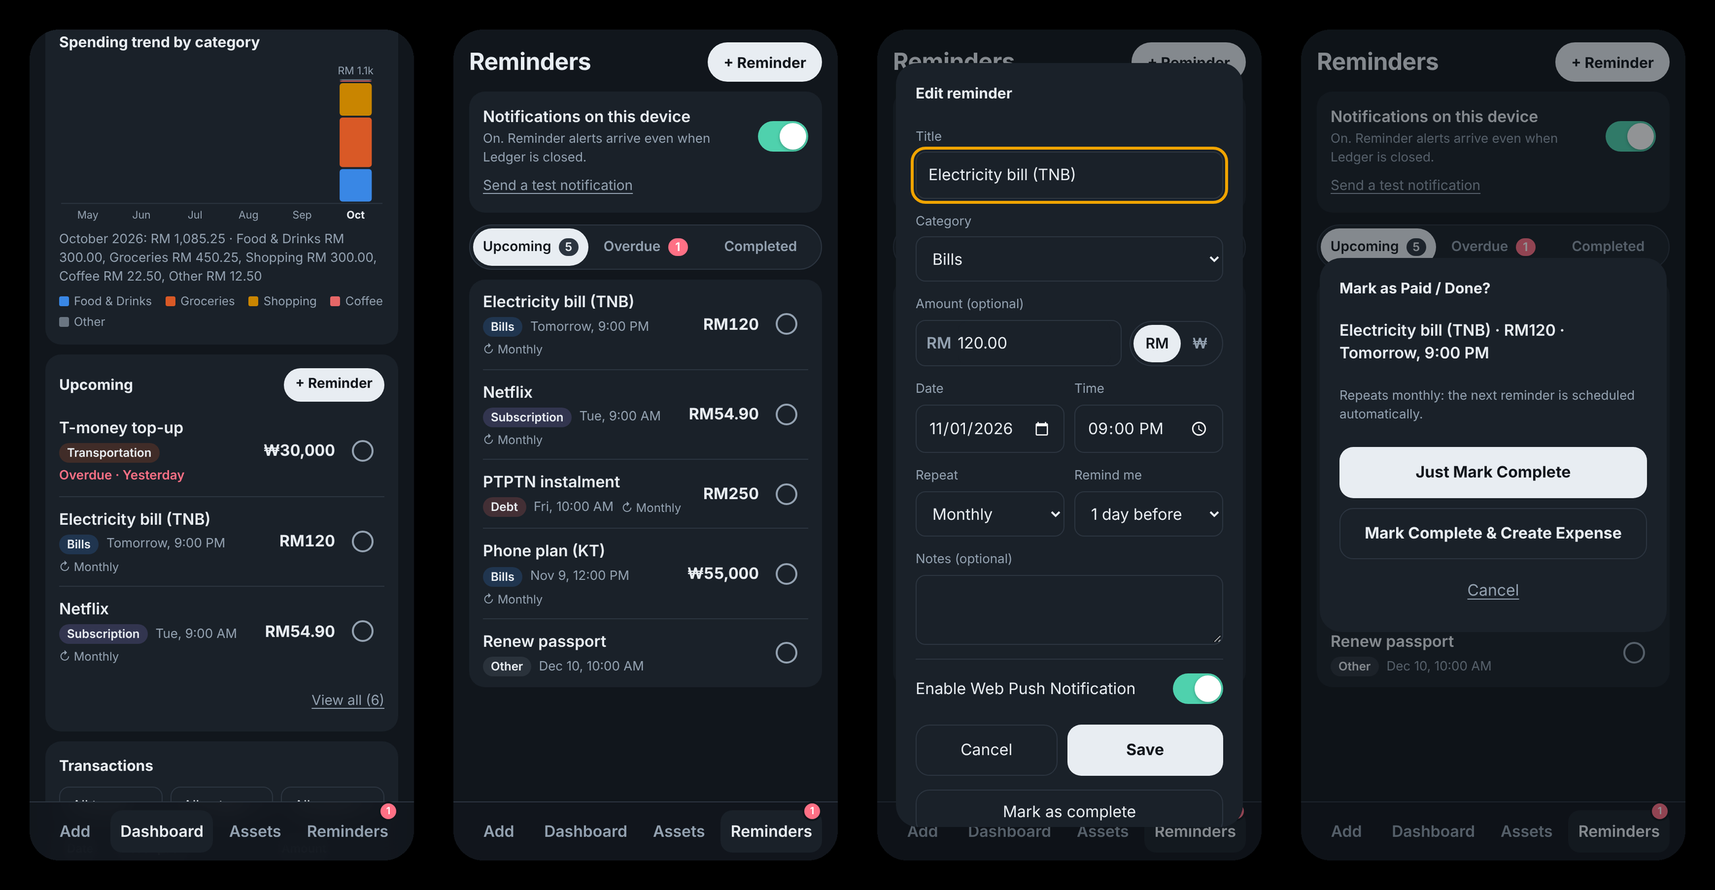
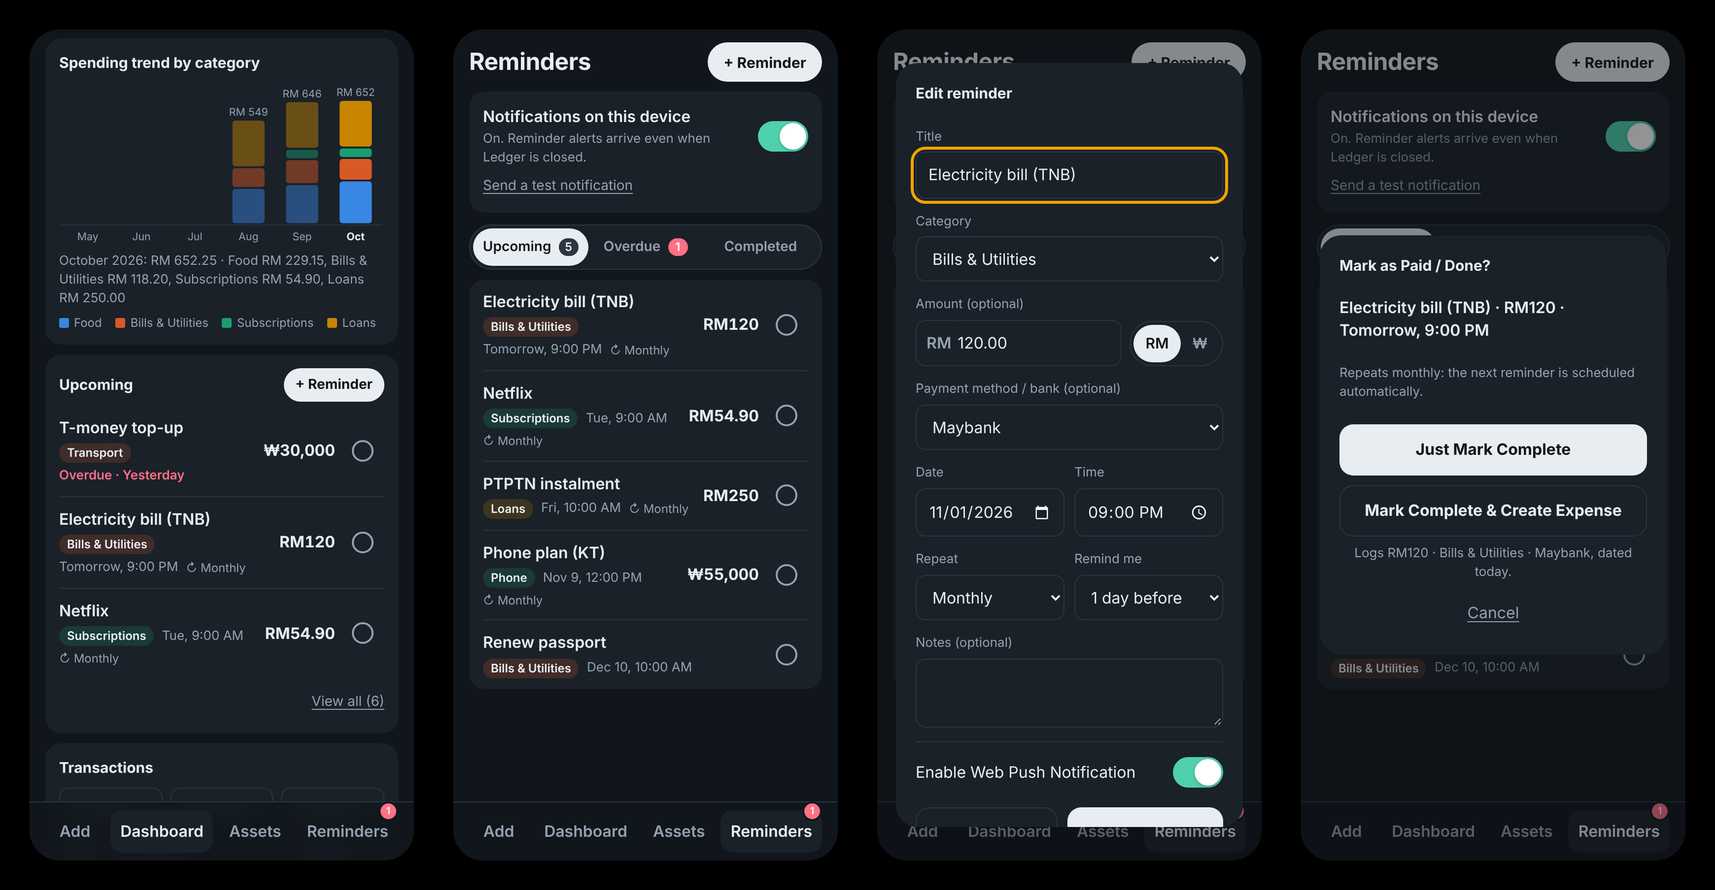
Reminders: use expense categories and payment methods; Create Expense logs directly

diff --git a/app.js b/app.js
@@ -108,6 +108,7 @@
       S.lastSavedId = null;
       toast("Deleted.");
       loadRecent(); if (!$("dash").hidden) loadDash();
+      loadReminders(true);   // an expense logged from a reminder is unlinked from it
     } catch (e) { toast("Couldn't undo: " + e.message, { bad: true }); }
   });
 
@@ -1050,7 +1051,6 @@
   // form pre-filled, and nothing is counted as spending until that expense is saved.
   const R = { list: [], completed: [], loadedAt: 0, filter: store.get("remFilter", "upcoming"), ctx: null, pendingOpen: null, devices: 0 };
   const TZ = (() => { try { return Intl.DateTimeFormat().resolvedOptions().timeZone || "Asia/Seoul"; } catch { return "Asia/Seoul"; } })();
-  const REM_CATS = ["Bills", "Transportation", "Debt", "Subscription", "Shopping", "Other"];
   const pad2 = (n) => String(n).padStart(2, "0");
   const dayKey = (d) => `${d.getFullYear()}-${pad2(d.getMonth() + 1)}-${pad2(d.getDate())}`;
   const clockText = (d) => d.toLocaleTimeString("en-US", { hour: "numeric", minute: "2-digit" }).replace(/[  ]/g, " ");
@@ -1102,10 +1102,13 @@
   function remItem(r) {
     const st = remStatus(r), amt = remAmount(r);
     const when = el("span", { class: "rem-when", text: schedText(r) });
-    const meta = el("span", { class: "rem-meta" },
-      el("span", { class: `badge badge-${REM_CATS.indexOf(r.category) + 1}`, text: r.category }), when);
+    // the badge uses the category's dashboard colour (same slot as in the charts)
+    const badge = el("span", { class: "badge", text: r.category || "No category" });
+    if (r.category) badge.style.setProperty("--bc", catPalette(r.currency, [r.category]).color(r.category));
+    const meta = el("span", { class: "rem-meta" }, badge, when);
     if (r.repeat !== "Once") meta.append(el("span", { class: "rem-rep", text: "↻ " + r.repeat }));
     if (!r.pushEnabled && st !== "completed") meta.append(el("span", { class: "rem-rep", text: "No alert" }));
+    if (r.transactionId) meta.append(el("span", { class: "rem-rep rem-logged", text: "✓ Logged" }));
     const main = el("button", { type: "button", class: "rem-main", onclick: () => openReminder(r) },
       el("span", { class: "rem-title", text: r.title }), meta);
     const right = el("div", { class: "rem-right" });
@@ -1154,8 +1157,54 @@
   $("rem-add-dash").addEventListener("click", () => openReminder(null));
 
   // ---------- create / edit dialog ----------
-  function setRemCur(code) {
+  // Categories are your expense categories (each belongs to RM or ₩). Picking one sets the currency;
+  // switching the currency by hand moves to the category of the same name in that list, if there is one.
+  const expenseCats = (code) => S.meta.categories.filter((c) => (!c.currency || c.currency === code) && c.kind !== "income").map((c) => c.name);
+  const payMethods = (code) => (S.meta.payment_methods || []).filter((b) => !b.currency || b.currency === code).map((b) => b.name);
+  function fillCatSelect(sel, { only = null, value = "" } = {}) {
+    const groups = curOrder().filter((code) => !only || code === only).map((code) => {
+      const names = expenseCats(code);
+      if (!names.length) return null;
+      return el("optgroup", { label: `${SYM[code] || code} categories` }, ...names.map((n) => el("option", { value: `${code}|${n}`, text: n })));
+    }).filter(Boolean);
+    sel.replaceChildren(el("option", { value: "", text: groups.length ? "Choose a category" : "No expense categories yet" }), ...groups);
+    sel.value = value;
+    if (sel.value !== value) sel.value = "";
+  }
+  function fillPmSelect(sel, code, value, emptyText = "None") {
+    const names = payMethods(code);
+    sel.replaceChildren(el("option", { value: "", text: names.length ? emptyText : `No ${SYM[code] || code} payment methods yet` }),
+      ...names.map((n) => el("option", { value: n, text: n })));
+    sel.value = names.includes(value) ? value : "";
+  }
+  const remCatName = () => ($("rem-cat").value ? $("rem-cat").value.split("|").slice(1).join("|") : "");
+  function remCatHint() {
+    const h = $("rem-cat-hint"), code = R.ctx.currency, name = R.ctx.wantCat;
+    let msg = "";
+    if (!expenseCats(code).length) msg = `You have no ${SYM[code] || code} expense categories yet: add one on the Add screen.`;
+    else if (!$("rem-cat").value && name) msg = `“${name}” isn't in your ${SYM[code] || code} list: pick a ${SYM[code] || code} category.`;
+    h.textContent = msg; h.hidden = !msg;
+  }
+  $("rem-cat").addEventListener("change", () => {
+    const v = $("rem-cat").value;
+    R.ctx.wantCat = null;
+    if (v) { const code = v.split("|")[0]; if (code !== R.ctx.currency) setRemCur(code, { keepCat: true }); }
+    remCatHint(); $("rem-err").hidden = true;
+  });
+  function setRemCur(code, { keepCat = false } = {}) {
+    const prev = R.ctx.currency;
     R.ctx.currency = code;
+    if (!keepCat) {
+      const name = remCatName() || R.ctx.wantCat;
+      const target = name && expenseCats(code).find((n) => n.toLowerCase() === name.toLowerCase());
+      $("rem-cat").value = target ? `${code}|${target}` : "";
+      R.ctx.wantCat = target ? null : name || null;
+    }
+    // payment method: same name in the new currency, else the one last used for that currency
+    const pmWas = $("rem-pm").value;
+    const pmSame = pmWas && payMethods(code).find((n) => n.toLowerCase() === pmWas.toLowerCase());
+    fillPmSelect($("rem-pm"), code, pmSame || (prev !== code || !R.ctx.id ? S.bankByCur[code] : pmWas) || "");
+    remCatHint();
     for (const b of $("rem-cur").children) b.setAttribute("aria-checked", String(b.dataset.v === code));
     $("rem-sym").textContent = SYM[code] || code;
     $("rem-amount").placeholder = decimals(code) ? "0.00" : "0";
@@ -1171,11 +1220,13 @@
     const nh = nextHour();
     $("rem-h").textContent = r ? (r.isCompleted ? "Completed reminder" : "Edit reminder") : "New reminder";
     $("rem-title").value = r?.title ?? "";
-    $("rem-cat").value = r?.category ?? "Bills";
+    fillCatSelect($("rem-cat"), { value: r?.category ? `${r.currency}|${r.category}` : "" });
+    fillPmSelect($("rem-pm"), R.ctx.currency, r ? r.paymentMethod ?? "" : S.bankByCur[R.ctx.currency] ?? "");
     $("rem-cur").replaceChildren(...curOrder().map((code) => el("button", {
       type: "button", role: "radio", "data-v": code, text: SYM[code] || code, onclick: () => setRemCur(code) })));
     $("rem-amount").value = r?.amount != null ? groupDigits(Number(r.amount).toFixed(decimals(r.currency)), r.currency) : "";
-    setRemCur(R.ctx.currency);
+    setRemCur(R.ctx.currency, { keepCat: true });
+    if (r) $("rem-pm").value = payMethods(r.currency).includes(r.paymentMethod) ? r.paymentMethod : "";
     $("rem-date").value = r?.date ?? nh.date;
     $("rem-time").value = r?.time ?? nh.time;
     $("rem-repeat").value = r?.repeat ?? "Once";
@@ -1213,11 +1264,13 @@
     const amount = plain($("rem-amount").value);
     const err = (m, focus) => { $("rem-err").textContent = m; $("rem-err").hidden = false; if (focus) $(focus).focus(); };
     if (!title) return err("Enter a title.", "rem-title");
+    if (!$("rem-cat").value) return err("Choose a category.", "rem-cat");
     if (amount !== "" && !(Number(amount) > 0)) return err("Enter an amount above zero, or leave it empty.", "rem-amount");
     if (!$("rem-date").value) return err("Pick a date.", "rem-date");
     if (!/^\d{2}:\d{2}/.test($("rem-time").value)) return err("Pick a time.", "rem-time");
     const body = {
-      title, category: $("rem-cat").value, amount: amount === "" ? null : amount, currency: R.ctx.currency,
+      title, category: remCatName(), paymentMethod: $("rem-pm").value || null,
+      amount: amount === "" ? null : amount, currency: R.ctx.currency,
       date: $("rem-date").value, time: $("rem-time").value.slice(0, 5), repeat: $("rem-repeat").value,
       remindBefore: $("rem-before").value, notes: $("rem-notes").value.trim() || null,
       pushEnabled: $("rem-push").checked, timeZone: TZ,
@@ -1259,62 +1312,109 @@
   $("rem-complete").addEventListener("click", () => { const r = R.ctx?.original; $("rem-dlg").close(); R.ctx = null; if (r) askComplete(r); });
 
   // ---------- complete: "Mark as Paid / Done?" ----------
+  // "Mark Complete & Create Expense" logs the expense straight from the reminder (server side, in the same
+  // database transaction as completing it). If the reminder has no amount, category or payment method yet,
+  // the dialog asks for just those first; they are saved to the reminder (and its next instance) too.
   let doneCtx = null;
+  const missingFor = (r) => ({ amount: r.amount === null || r.amount === undefined || r.amount === "", category: !r.category, paymentMethod: !r.paymentMethod });
   function askComplete(r) {
-    doneCtx = r;
+    doneCtx = { r, filling: false };
     const amt = remAmount(r);
     $("done-what").textContent = `${r.title}${amt ? ` · ${amt}` : ""} · ${schedText(r)}`;
     $("done-next").hidden = r.repeat === "Once";
     $("done-next").textContent = `Repeats ${r.repeat.toLowerCase()}: the next reminder is scheduled automatically.`;
     $("done-err").hidden = true;
+    $("done-fill").hidden = true;
+    $("done-expense").textContent = "Mark Complete & Create Expense";
+    $("done-expense").className = "ghost strong"; $("done-only").hidden = false;
+    const miss = missingFor(r);
+    $("done-log").textContent = r.transactionId ? "The expense for this reminder is already logged."
+      : (miss.amount || miss.category || miss.paymentMethod) ? "Logs an expense from this reminder; you'll be asked for the missing details."
+      : `Logs ${amt} · ${r.category} · ${r.paymentMethod}, dated today.`;
     for (const id of ["done-only", "done-expense"]) $(id).disabled = false;
     $("done-dlg").showModal();
   }
+  function showFill(r, fields) {
+    doneCtx.filling = true;
+    const code = r.currency;
+    $("done-amt-wrap").hidden = !fields.amount;
+    $("done-cat-wrap").hidden = !fields.category;
+    $("done-pm-wrap").hidden = !fields.paymentMethod;
+    $("done-sym").textContent = SYM[code] || code;
+    $("done-amount").value = "";
+    $("done-amount").setAttribute("inputmode", decimals(code) ? "decimal" : "numeric");
+    $("done-amount").placeholder = decimals(code) ? "0.00" : "0";
+    fillCatSelect($("done-cat"), { only: code });
+    fillPmSelect($("done-pm"), code, S.bankByCur[code] ?? "", "Choose a payment method");
+    $("done-fill").hidden = false;
+    $("done-expense").textContent = "Log expense & complete";
+    $("done-expense").className = "primary"; $("done-only").hidden = true;   // one clear next step while filling in
+    $("done-log").textContent = "";
+    const first = fields.amount ? "done-amount" : fields.category ? "done-cat" : "done-pm";
+    setTimeout(() => $(first).focus(), 50);
+  }
+  $("done-amount").addEventListener("input", () => formatInput($("done-amount"), doneCtx?.r.currency || "MYR"));
   $("done-form").addEventListener("submit", async (e) => {
     const how = e.submitter?.value;
     if (how !== "done" && how !== "expense") { doneCtx = null; return; }
     e.preventDefault();
-    const r = doneCtx;
+    const r = doneCtx.r;
+    const fail = (m) => { $("done-err").textContent = m; $("done-err").hidden = false; };
+    $("done-err").hidden = true;
+    let body;
+    if (how === "expense") {
+      const miss = missingFor(r);
+      if (!r.transactionId && !doneCtx.filling && (miss.amount || miss.category || miss.paymentMethod)) return showFill(r, miss);
+      body = { createExpense: true, date: todayLocal() };
+      if (doneCtx.filling) {
+        if (!$("done-amt-wrap").hidden) {
+          const a = plain($("done-amount").value);
+          if (!(Number(a) > 0)) { $("done-amount").focus(); return fail("Enter the amount you paid."); }
+          body.amount = a;
+        }
+        if (!$("done-cat-wrap").hidden) {
+          if (!$("done-cat").value) { $("done-cat").focus(); return fail("Choose a category."); }
+          body.category = $("done-cat").value.split("|").slice(1).join("|");
+        }
+        if (!$("done-pm-wrap").hidden) {
+          if (!$("done-pm").value) { $("done-pm").focus(); return fail("Choose a payment method."); }
+          body.paymentMethod = $("done-pm").value;
+        }
+      }
+    }
     for (const id of ["done-only", "done-expense"]) $(id).disabled = true;
     try {
-      const res = await api("POST", `/reminders/${r.id}/complete`);
+      const res = await api("POST", `/reminders/${r.id}/complete`, body);
       $("done-dlg").close(); doneCtx = null;
       upsertLocal(res.reminder);
       if (res.next) upsertLocal(res.next);
       const next = res.next ? ` Next: ${schedText(res.next)}.` : "";
-      if (how === "expense") {
-        prefillExpense(res.reminder);
-        toast("Marked complete." + next + " Check the expense below, then tap Save expense.", { ms: 8000 });
+      if (how === "expense" && res.transaction) {
+        const t = res.transaction;
+        if (body.paymentMethod) { S.bankByCur[t.currency] = t.which_bank; store.set("bankByCur", S.bankByCur); }
+        S.lastSavedId = res.expense_logged ? t.transaction_id : null;
+        toast(`${res.expense_logged ? "Logged" : "Already logged"} ${remAmount({ amount: t.amount, currency: t.currency })} · ${t.item} · ${t.which_bank}.${next}`,
+              { undo: res.expense_logged, ms: 7000 });
+        loadRecent();
+        if (!$("dash").hidden) loadDash(true);
       } else toast(`Marked complete.${next}`);
       loadReminders(true);
     } catch (x) {
-      if (x instanceof ApiError && x.status === 404) { $("done-dlg").close(); toast("That reminder was deleted."); loadReminders(true); return; }
-      $("done-err").textContent = "Couldn't complete it: " + x.message; $("done-err").hidden = false;
       for (const id of ["done-only", "done-expense"]) $(id).disabled = false;
+      if (x instanceof ApiError && x.status === 404 && x.body?.error?.code === "not_found" && !/Route/.test(x.message)) {
+        $("done-dlg").close(); toast("That reminder was deleted."); loadReminders(true); return;
+      }
+      if (x instanceof ApiError && x.body?.error?.code === "expense_details_missing") {   // stale copy: ask for what the server says
+        const f = x.body.error.fields || {};
+        showFill(r, { amount: !!f.amount, category: !!f.category, paymentMethod: !!f.paymentMethod });
+        return fail("Add the missing details to log the expense.");
+      }
+      fail("Couldn't complete it: " + (x.body?.error?.message || x.message));
     }
   });
   async function reopenReminder(r) {
     try { const res = await api("POST", `/reminders/${r.id}/reopen`); upsertLocal(res.reminder); toast("Reopened."); }
     catch (x) { toast("Couldn't reopen: " + x.message, { bad: true }); }
-  }
-  // the standard expense entry form, pre-filled; nothing is saved until the user taps Save expense
-  function prefillExpense(r) {
-    showTab("add");
-    if (S.type !== "expense") S.type = "expense";
-    if (S.meta.currencies.some((c) => c.code === r.currency)) { S.currency = r.currency; store.set("currency", r.currency); }
-    renderCurrencySegs(); renderCurrency();
-    const cats = catsForType(), want = r.category.toLowerCase();
-    const match = cats.find((c) => c.toLowerCase() === want)
-      || cats.find((c) => c.toLowerCase().startsWith(want.slice(0, 5)) || want.startsWith(c.toLowerCase().slice(0, 5)));
-    if (match) { S.category = match; renderType(); }
-    $("amount").value = r.amount != null ? groupDigits(Number(r.amount).toFixed(decimals(r.currency)), r.currency) : "";
-    formatInput($("amount"), S.currency);
-    $("item").value = r.title;
-    $("date").value = r.date;
-    $("notes").value = "";
-    S.requestId = uuid();
-    window.scrollTo({ top: 0 });
-    setTimeout(() => $(r.amount != null ? "item" : "amount").focus(), 60);
   }
 
   // ---------- Web Push: this device ----------

diff --git a/index.html b/index.html
@@ -282,13 +282,16 @@
       <label class="field"><span>Title</span>
         <input id="rem-title" maxlength="80" autocomplete="off" autocapitalize="sentences" placeholder="e.g. Electricity bill" required></label>
       <label class="field"><span>Category</span>
-        <select id="rem-cat"><option>Bills</option><option>Transportation</option><option>Debt</option><option>Subscription</option><option>Shopping</option><option>Other</option></select></label>
+        <select id="rem-cat" required></select>
+        <span class="muted small" id="rem-cat-hint" hidden></span></label>
       <div class="field"><span id="rem-amt-label">Amount <span class="optional">(optional)</span></span>
         <div class="amt-row">
           <label class="budget-input grow"><span id="rem-sym">RM</span>
             <input id="rem-amount" inputmode="decimal" autocomplete="off" placeholder="0.00" aria-labelledby="rem-amt-label"></label>
           <div class="seg" id="rem-cur" role="radiogroup" aria-label="Currency"></div>
         </div></div>
+      <label class="field"><span>Payment method / bank <span class="optional">(optional)</span></span>
+        <select id="rem-pm"></select></label>
       <div class="two">
         <label class="field"><span>Date</span><input id="rem-date" type="date" required></label>
         <label class="field"><span>Time</span><input id="rem-time" type="time" required></label>
@@ -321,9 +324,17 @@
       <h2>Mark as Paid / Done?</h2>
       <p id="done-what" class="del-what"></p>
       <p class="muted small" id="done-next" hidden></p>
+      <div class="stack done-fill" id="done-fill" hidden>
+        <p class="muted small">To log the expense, add:</p>
+        <label class="field" id="done-amt-wrap"><span>Amount paid</span>
+          <span class="budget-input"><span id="done-sym">RM</span><input id="done-amount" inputmode="decimal" autocomplete="off"></span></label>
+        <label class="field" id="done-cat-wrap"><span>Category</span><select id="done-cat"></select></label>
+        <label class="field" id="done-pm-wrap"><span>Payment method / bank</span><select id="done-pm"></select></label>
+      </div>
       <p id="done-err" class="error" role="alert" hidden></p>
       <button class="primary" value="done" type="submit" id="done-only">Just Mark Complete</button>
       <button class="ghost strong" value="expense" type="submit" id="done-expense">Mark Complete &amp; Create Expense</button>
+      <p class="muted small done-log" id="done-log"></p>
       <button class="link center-link" value="cancel" type="submit" formnovalidate>Cancel</button>
     </form>
   </dialog>

diff --git a/styles.css b/styles.css
@@ -380,8 +380,6 @@ dialog::backdrop { background: rgba(10, 15, 20, .45); }
   display: inline-block; font-size: 12px; font-weight: 600; line-height: 1; padding: 4px 8px; border-radius: 999px;
   color: var(--ink); background: color-mix(in srgb, var(--bc, var(--s-other)) 20%, var(--surface));
 }
-.badge-1 { --bc: var(--s1); } .badge-2 { --bc: var(--s2); } .badge-3 { --bc: var(--s8); }
-.badge-4 { --bc: var(--s7); } .badge-5 { --bc: var(--s5); } .badge-6 { --bc: var(--s-other); }
 
 .rem-tabs { margin-top: 12px; }
 .seg button[role="tab"][aria-selected="true"] { background: var(--ink); color: var(--bg); }
@@ -427,3 +425,12 @@ dialog::backdrop { background: rgba(10, 15, 20, .45); }
 #rem-complete { min-height: 46px; }
 .rem-tabs button { padding: 8px 6px; white-space: nowrap; font-size: 14px; }
 .tab-badge { position: absolute; top: -7px; right: 2px; margin: 0; min-width: 16px; line-height: 16px; font-size: 10px; padding: 0 4px; box-shadow: 0 0 0 2px var(--bg); }
+
+.rem-logged { color: var(--inc); font-weight: 600; }
+.done-fill { border-top: 1px solid var(--line); padding-top: 10px; }
+.done-fill .field { margin: 0; }
+.done-fill p { margin: 0; }
+.done-log { margin: -2px 0 0; text-align: center; }
+.done-log:empty { display: none; }
+#done-dlg { max-height: 92vh; overflow-y: auto; }
+#rem-cat-hint { color: var(--over); }

diff --git a/README.md b/README.md
@@ -21,8 +21,8 @@ Ringgit (RM) and Won (₩) are kept completely separate: their own categories, p
 | **Budgets that talk back** | A monthly budget per currency plus optional budgets per category. Bars show *% used* and turn red when you go over. |
 | **Live dashboard** | Spent / remaining meter, a category doughnut, budget bars and a 6-month stacked trend. Pick any month; it refreshes every 15 seconds while open. |
 | **Assets and net worth** | Savings accounts, ASB, gold, stocks, EPF… grouped by category with totals, a dated value history and RM / ₩ trend lines for the last 3 months. |
-| **Bill reminders with notifications** | Bills, subscriptions, debt instalments and top-ups, in RM or ₩, once or repeating (daily to yearly). The server sends a push notification at the time you pick (or 10 min to 1 day before), even when Ledger is closed. Tap it to open that reminder. |
-| **Reminders stay separate from spending** | A reminder never counts as an expense. When you pay, choose **Mark Complete & Create Expense** and the normal entry form opens pre-filled. Nothing is logged until you tap *Save expense*. |
+| **Bill reminders with notifications** | Bills, subscriptions, debt instalments and top-ups, filed under your own expense categories and payment methods (picking a ₩ category switches the reminder to ₩), once or repeating (daily to yearly). The server sends a push notification at the time you pick (or 10 min to 1 day before), even when Ledger is closed. Tap it to open that reminder. |
+| **One tap from reminder to expense** | A reminder never counts as spending on its own. When you pay, **Mark Complete & Create Expense** logs the expense straight away with the reminder's title, amount, currency, category, payment method and notes, dated the day you pay. If something is missing, such as the amount, Ledger asks for just that. |
 | **Works on a bad connection** | If the network drops, entries wait on the phone and send themselves later. A retried send can never create a duplicate. |
 | **Everywhere on the iPhone** | Installable Home Screen app, a Scriptable Home / Lock Screen widget (`LedgerWidget.js`), and an iOS Shortcut for Siri or a double tap on the back of the phone. |
 
@@ -34,6 +34,7 @@ Ringgit (RM) and Won (₩) are kept completely separate: their own categories, p
 </picture>
 
 - **Upcoming** on the dashboard shows the next 3 (overdue first), with *+ Reminder* and *View all*. The **Reminders** tab splits them into *Upcoming*, *Overdue* and *Completed*.
+- **Mark as Paid / Done?** offers *Just Mark Complete* or *Mark Complete & Create Expense*. A logged expense shows as *✓ Logged* under *Completed*, and the toast has an *Undo*.
 - **Repeating reminders** move on by themselves. Completing one schedules the next, and monthly ones keep their day (31 Jan → 28 Feb → 31 Mar). If you forget one, the next still arrives on time and the missed one waits under *Overdue*.
 - **Notifications on iPhone** need iOS 16.4 or later, with Ledger added to the Home Screen and opened from there. In a Safari tab, or if notifications are blocked, the app explains what to do and reminders still show in the app.
 
@@ -131,7 +132,8 @@ On first launch it asks for the **API address** and **API key**. It needs a runn
 | `POST` / `PATCH` / `DELETE` | `/asset-categories` | Manage asset categories |
 | `GET` / `POST` | `/reminders` | Open + recently completed reminders, add one (idempotent via `request_id`) |
 | `GET` / `PATCH` / `DELETE` | `/reminders/{id}` | Open, edit, delete a reminder |
-| `POST` | `/reminders/{id}/complete`, `/reminders/{id}/reopen` | Mark done (schedules the next one if it repeats) or undo |
+| `POST` | `/reminders/{id}/complete` | Mark done; with `{"createExpense": true}` also logs the expense (once). Schedules the next one if it repeats |
+| `POST` | `/reminders/{id}/reopen` | Undo "done" |
 | `POST` / `DELETE` | `/push/subscriptions` | Turn notifications on / off for this device |
 | `POST` | `/push/test` | Send a test notification |
 | `GET` | `/health` | Uptime check (no key needed; says only up or down) |
@@ -143,4 +145,4 @@ On first launch it asks for the **API address** and **API key**. It needs a runn
 ## Built with
 
 Plain HTML, CSS and JavaScript · SVG · Supabase (PostgreSQL + Deno Edge Functions) · Power BI Desktop · Scriptable · GitHub Pages and Actions.
-The private API is covered by automated tests: 44 API tests against a real PostgreSQL (including decrypting real push payloads and checking the VAPID signature), and more than 100 browser checks at iPhone size, including a push delivered to the real service worker.
+The private API is covered by automated tests: 45 API tests against a real PostgreSQL (including decrypting real push payloads and checking the VAPID signature), and more than 100 browser checks at iPhone size, including a push delivered to the real service worker.
